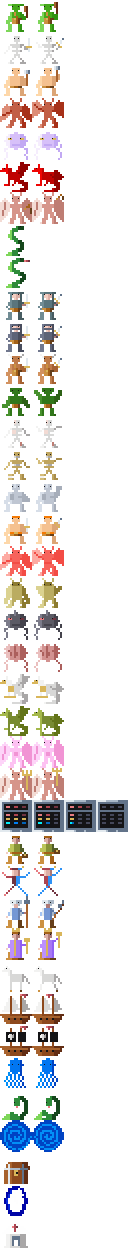
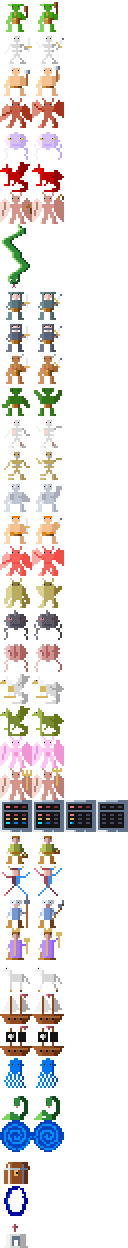
Great Serpent as one 32 x 64 figure across tiles 58 and 59
Take the corrected atlas (only the two snake halves changed; every other
frame is pixel-identical), drop the skip in the compose tool and place
the halves in their cells. Status notes in the README and the briefs.

Claude-Session: https://claude.ai/code/session_013fzjLXvyH1ATjhYrYXYjzx

Changed region(s): [[0.0312, 0.1562, 0.2188, 0.25]]

diff --git a/web/tools/compose-figures.ts b/web/tools/compose-figures.ts
@@ -28,11 +28,6 @@ const ART = join(root, 'art/figures');
 const CELL = 64; // Standard's cell size
 const TILE_ROWS = 16;
 const EXODUS_PANEL_COLUMN = 5;
-/** Rows of figures.json left out, with why. */
-const SKIP: Record<string, string> = {
-  'snake-58': 'tiles 58 and 59 stack as one tall snake; the delivered pair does not',
-  'snake-59': 'see snake-58',
-};
 /** Career-table order (Fighter, Cleric, Wizard, Thief, Paladin, Barbarian, Lark, Illusionist, Druid, Alchemist, Ranger) to atlas row name. */
 const CAREERS = ['fighter', 'cleric', 'wizard', 'thief', 'paladin', 'barbarian', 'lark', 'illusionist', 'druid', 'alchemist', 'ranger'];
 const FIRST_CLASS_TILE = 68;
@@ -196,10 +191,6 @@ CAREERS.forEach((name, career) => {
 const figures = decodePng(readFileSync(join(ART, 'figures.png')));
 const atlas = JSON.parse(readFileSync(join(ART, 'figures.json'), 'utf8')) as FigureAtlas;
 for (const row of atlas.rows) {
-  if (row.name in SKIP) {
-    console.log(`skip ${row.name}: ${SKIP[row.name]}`);
-    continue;
-  }
   if (row.name === 'exodus') {
     // Four states, delivered in state order 3, 2, 1, 0; the panel column holds state n in row n.
     row.frames.forEach((rect, i) => {

diff --git a/web/README.md b/web/README.md
@@ -393,9 +393,9 @@ save contains except the pooled gold and food.
   `docs/figure-art-spec.md` (Apple II silhouettes on a 2 px grid, three
   tones per material, hard alpha) and lives as two atlases with their
   manifests in `art/figures/`; `npm run figures` writes them into the
-  sheet, so a redrawn atlas is one command away from the game. The two
-  snake tiles (58, 59) keep the earlier art: they stack as one tall snake,
-  which the brief got wrong.
+  sheet, so a redrawn atlas is one command away from the game. The Great
+  Serpent that blocks the pass is one 32 x 64 figure split across tiles 58
+  (north) and 59 (south), briefed separately in `docs/snake-brief.md`.
 - **One figure per class.** Cells 68-78 of a sheet hold a figure for each
   class in career-table order (Fighter, Cleric, Wizard, Thief, Paladin,
   Barbarian, Lark, Illusionist, Druid, Alchemist, Ranger), and

diff --git a/web/docs/figure-art-spec.md b/web/docs/figure-art-spec.md
@@ -7,10 +7,9 @@ and must be redrawn the same way, with the rules the game engine imposes.
 ## 0. Status
 
 Delivered and integrated (`art/figures/`, `npm run figures`). One correction
-to this brief came out of the delivery: tiles 58 and 59 are the top and bottom
-halves of one tall snake drawn on the map, not two animation frames, so the
-delivered pair could not be used and the earlier snake art stays. The
-redraw is briefed separately in `snake-brief.md`.
+to this brief came out of the first delivery: tiles 58 and 59 are the north
+and south halves of one tall snake drawn on the map, not two animation
+frames. The redraw was briefed in `snake-brief.md` and is in the sheet.
 
 ## 1. Why
 

diff --git a/web/docs/snake-brief.md b/web/docs/snake-brief.md
@@ -1,5 +1,7 @@
 # Snake: one 32 x 64 figure across two tiles
 
+Status: delivered and integrated; kept as the record of the correction.
+
 A correction to `figure-art-spec.md`. The first pass drew tiles 58 and 59 as
 two separate snakes. They are the two halves of one tall snake, and the
 delivered pair could not be used. Redraw it as one figure.
